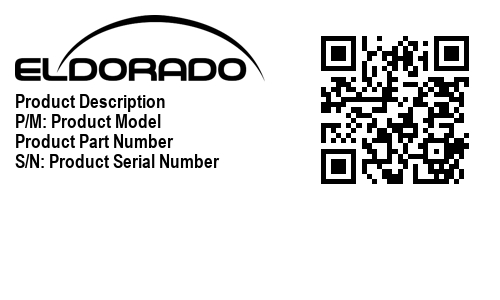
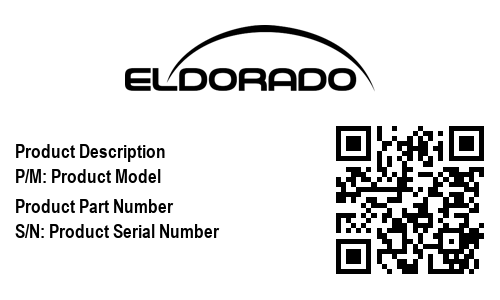
17092020

Changed region(s): [[0.03, 0.03, 0.99, 0.93], [0.03, 0.75, 0.45, 0.81], [0.03, 0.66, 0.36, 0.72]]

diff --git a/qr_functions.py b/qr_functions.py
@@ -90,8 +90,8 @@ def adhesive_tag_100x80(file_name, data_pd, data_model, data_item, data_pn, data
     img_mounting = background_100x80.copy();
 
     #eld_logo_pos = ( (int(background_75x25.width/2) - int(eld_logo_resized.width/2) - 40) , (15) );
-    eld_logo_pos = ( (200) , (30) );
-    qrcode_img_pos = ( (int(background_100x80.width) - int(qrcode_img_resized.width) - 20) , ( int(background_100x80.height/2) - int(qrcode_img_resized.height/2)-30 ));
+    eld_logo_pos = ( (200) , (100) );
+    qrcode_img_pos = ( (int(background_100x80.width) - int(qrcode_img_resized.width) - 20) , ( int(background_100x80.height/2) - int(qrcode_img_resized.height/2)+70 ));
     img_mounting.paste(eld_logo, eld_logo_pos, eld_logo);
     img_mounting.paste(qrcode_img_resized, qrcode_img_pos);
     
@@ -105,10 +105,10 @@ def adhesive_tag_100x80(file_name, data_pd, data_model, data_item, data_pn, data
     t1 = ImageDraw.Draw(qr_img);
     textFont = ImageFont.truetype('fonts/ARIALNB.TTF', 24);
     text2Font = ImageFont.truetype('fonts/ARIALNB.TTF', 24);
-    t1.text( (20,160), data_pd, font = textFont, fill=(0,0,0));
-    t1.text( (20,190), 'P/M: ' + data_model, font = textFont, fill=(0,0,0));
-    t1.text( (20,220), data_pn, font = text2Font, fill=(0,0,0));
-    t1.text( (20,250), 'S/N: ' + data_sn, font = text2Font, fill=(0,0,0));
+    t1.text( (20,220), data_pd, font = textFont, fill=(0,0,0));
+    t1.text( (20,250), 'P/M: ' + data_model, font = textFont, fill=(0,0,0));
+    t1.text( (20,280), data_pn, font = text2Font, fill=(0,0,0));
+    t1.text( (20,310), 'S/N: ' + data_sn, font = text2Font, fill=(0,0,0));
 
     qr_img.save('images/base_imgs_'+size+'/temp_imgs/' + file_name + '.png');
     qr_img = Image.open('images/base_imgs_'+size+'/temp_imgs/' + file_name + '.png').convert('LA');
@@ -147,8 +147,8 @@ def adhesive_tag_50x30(file_name, data_pd, data_model, data_item, data_pn, data_
     img_mounting = background_50x30.copy();
 
     #eld_logo_pos = ( (int(background_75x25.width/2) - int(eld_logo_resized.width/2) - 40) , (15) );
-    eld_logo_pos = ( (15) , (15) );
-    qrcode_img_pos = ( (int(background_50x30.width) - int(qrcode_img_resized.width) - 10) , ( int(background_50x30.height/2) - int(qrcode_img_resized.height/2)-40 ));
+    eld_logo_pos = ( (125) , (25) );
+    qrcode_img_pos = ( (int(background_50x30.width) - int(qrcode_img_resized.width)+5) , ( int(background_50x30.height/2) - int(qrcode_img_resized.height/2)+50 ));
     img_mounting.paste(eld_logo_resized, eld_logo_pos, eld_logo_resized);
     img_mounting.paste(qrcode_img_resized, qrcode_img_pos);
     
@@ -162,10 +162,67 @@ def adhesive_tag_50x30(file_name, data_pd, data_model, data_item, data_pn, data_
     t1 = ImageDraw.Draw(qr_img);
     textFont = ImageFont.truetype('fonts/ARIALNB.TTF', 19);
     text2Font = ImageFont.truetype('fonts/ARIALNB.TTF', 19);
-    t1.text( (15,90), data_pd, font = textFont, fill=(0,0,0));
-    t1.text( (15,110), 'P/M: ' + data_model, font = textFont, fill=(0,0,0));
-    t1.text( (15,130), data_pn, font = text2Font, fill=(0,0,0));
-    t1.text( (15,150), 'S/N: ' + data_sn, font = text2Font, fill=(0,0,0));
+    t1.text( (15,140), data_pd, font = textFont, fill=(0,0,0));
+    t1.text( (15,165), 'P/M: ' + data_model, font = textFont, fill=(0,0,0));
+    t1.text( (15,190), data_pn, font = text2Font, fill=(0,0,0));
+    t1.text( (15,215), 'S/N: ' + data_sn, font = text2Font, fill=(0,0,0));
+
+    qr_img.save('images/base_imgs_'+size+'/temp_imgs/' + file_name + '.png');
+    qr_img = Image.open('images/base_imgs_'+size+'/temp_imgs/' + file_name + '.png').convert('LA');
+    qr_img.save('images/base_imgs_'+size+'/' + file_name + '.png');
+
+
+
+
+    #imgpil.show()
+    if(delete_temp_files == True):
+        os.remove('images/base_imgs_'+size+'/temp_imgs/eld_logo_resized.png');
+        os.remove('images/base_imgs_'+size+'/temp_imgs/'+data_item+'_qrcode_resized.png');
+        os.remove('images/base_imgs_'+size+'/temp_imgs/' + file_name + '.png');
+        os.remove('images/base_imgs_'+size+'/temp_imgs/'+data_item+'_qrcode.png');
+
+    else:
+        pass;
+
+
+def adhesive_tag_34x23(file_name, data_pd, data_model, data_item, data_pn, data_sn, delete_temp_files):
+    size = "34x23";
+    qrcode = QRCode(data_pn); #Gera o Qr Code com os dados vindos do campo part number da planilha do inventório
+    qrcode.png('images/base_imgs_'+size+'/temp_imgs/'+data_item+'_qrcode.png', scale=6); #Salva o qr code gerado no caminho indicado
+
+    qrcode_img = Image.open('images/base_imgs_'+size+'/temp_imgs/'+data_item+'_qrcode.png'); #abre a img de qrcode gerada e salva
+    qrcode_img.thumbnail((120,120)); #redimensiona para 210p por 210p
+    qrcode_img.save('images/base_imgs_'+size+'/temp_imgs/'+data_item+'_qrcode_resized.png'); #salva o qrcode redimensionado
+    qrcode_img_resized = Image.open('images/base_imgs_'+size+'/temp_imgs/'+data_item+'_qrcode_resized.png'); #reabre a imagem redimensionada 
+
+    eld_logo = Image.open('images/base_imgs_'+size+'/logo_eldorado_597x160.png'); #
+    eld_logo.thumbnail((220, 220)); 
+    eld_logo.save('images/base_imgs_'+size+'/temp_imgs/eld_logo_resized.png');
+    eld_logo_resized = Image.open('images/base_imgs_'+size+'/temp_imgs/eld_logo_resized.png');
+
+    background_34x23 = Image.open('images/base_imgs_'+size+'/34x23_background.png');
+    img_mounting = background_34x23.copy();
+
+    #eld_logo_pos = ( (int(background_75x25.width/2) - int(eld_logo_resized.width/2) - 40) , (15) );
+    eld_logo_pos = ( (45) , (25) );
+    qrcode_img_pos = ( (int(background_34x23.width) - int(qrcode_img_resized.width)+5) , ( int(background_34x23.height/2) - int(qrcode_img_resized.height/2)+40 ));
+    img_mounting.paste(eld_logo_resized, eld_logo_pos, eld_logo_resized);
+    img_mounting.paste(qrcode_img_resized, qrcode_img_pos);
+    
+
+
+    img_mounting.save('images/base_imgs_'+size+'/temp_imgs/' + file_name + '.png');
+
+    qr_img = Image.open('images/base_imgs_'+size+'/temp_imgs/' + file_name + '.png');
+    qr_img.thumbnail((595, 595));
+    
+    t1 = ImageDraw.Draw(qr_img);
+    textFont = ImageFont.truetype('fonts/ARIALNB.TTF', 19);
+    text2Font = ImageFont.truetype('fonts/ARIALNB.TTF', 19);
+    t1.text( (15,110), data_pd, font = textFont, fill=(0,0,0));
+    t1.text( (15,130), 'P/M: ' + data_model, font = textFont, fill=(0,0,0));
+    t1.text( (15,150), data_pn, font = text2Font, fill=(0,0,0));
+    t1.text( (15,170), 'S/N: ' + data_sn, font = text2Font, fill=(0,0,0));
 
     qr_img.save('images/base_imgs_'+size+'/temp_imgs/' + file_name + '.png');
     qr_img = Image.open('images/base_imgs_'+size+'/temp_imgs/' + file_name + '.png').convert('LA');

diff --git a/functions_test.py b/functions_test.py
@@ -9,4 +9,5 @@ data_sn = "Product Serial Number";
 delete_temp_files = False;
 
 #adhesive_tag_100x80(file_name, data_pd, data_model, data_item, data_pn, data_sn, delete_temp_files);
-adhesive_tag_50x30(file_name, data_pd, data_model, data_item, data_pn, data_sn, delete_temp_files);
+#adhesive_tag_50x30(file_name, data_pd, data_model, data_item, data_pn, data_sn, delete_temp_files);
+adhesive_tag_34x23(file_name, data_pd, data_model, data_item, data_pn, data_sn, delete_temp_files);
